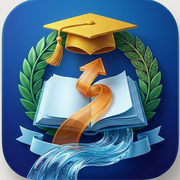
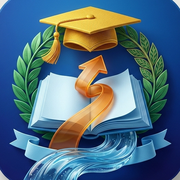
203

diff --git a/src/components/layout.tsx b/src/components/layout.tsx
@@ -81,8 +81,8 @@ function SidebarContent({ location, stats, user, authLoading, login, logout, onN
             alt="مسار الإنجليزية"
             width={36}
             height={36}
-            className="shrink-0 rounded-xl object-cover"
-            style={{ width: 36, height: 36 }}
+            className="shrink-0 rounded-xl"
+            style={{ width: 36, height: 36, objectFit: "cover", display: "block" }}
           />
           <div>
             <span className="font-bold text-lg text-primary tracking-tight leading-none block">مسار الإنجليزية</span>